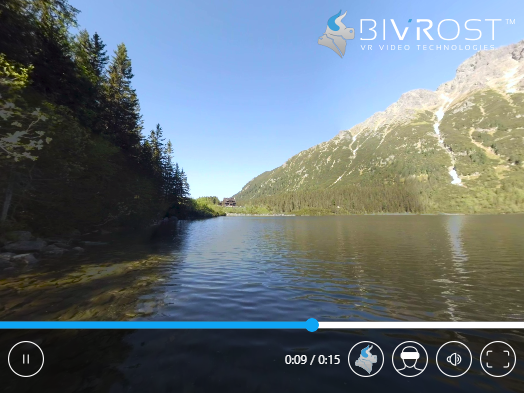
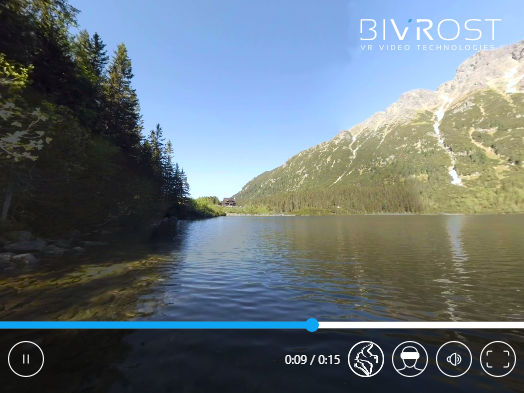
Upgraded new graphics, proofreading

Changed region(s): [[0.6718, 0.855, 0.7328, 0.9771], [0.6107, 0.0305, 0.7023, 0.1527]]

diff --git a/readme-to-markdown.php b/readme-to-markdown.php
@@ -12,6 +12,7 @@ $title = <<<END
 BIVROST 360WebPlayer for WordPress 
 ==================================
 
+![WordPress editor preview](screenshot-2.png)
 
 END;
 

diff --git a/readme.md b/readme.md
@@ -1,9 +1,10 @@
 BIVROST 360WebPlayer for WordPress 
 ==================================
 
+![WordPress editor preview](screenshot-2.png)
 
 
-Embed 360° videos and pictures on your Wordpress blog with the BIVROST 360WebPlayer for WordPress Plugin.
+Embed 360° videos and pictures on your WordPress blog with the BIVROST 360WebPlayer for WordPress Plugin.
 
 ### Features 
 
@@ -17,10 +18,11 @@ Embed 360° videos and pictures on your Wordpress blog with the BIVROST 360WebPl
 * Mono and stereoscopic video and pictures.
 * HTTP Live Streaming (HLS).
 * Works well with touch.
-* Well tested and supports many edge cases.
+* Well tested - supports many edge cases.
 * [WebVR][webvr] support - works with Oculus Rift, Vive, Windows Mixed Reality, OSVR, GearVR, Google Cardboard and more.
-* Supports watching content in external native players ([by Bivrost][player-windows]).
-* We want to hear your feedback and ideas for new features, to make it even better.
+* Supports watching content in external native players ([by BIVROST][player-windows]).
+
+We want to hear your feedback and ideas for new features, to make it even better.
 
 [bivrost]: http://bivrost360.com
 [webvr]: http://webvr.info/
@@ -50,9 +52,10 @@ my_vr_movie.mp4
 my_vr_movie.webm  
 [/bivrost-player]`
 
-Put the picture or movie urls in the `[bivrost-player]` tag separated by newlines. For best results add both a webm/vp6 and a mp4/h264 version.
+Put the picture or movie urls in the `[bivrost-player]` tag separated by newlines. For the best result add both a webm/vp6 and a mp4/h264 version.
 
-You can configure the player using attributes in the shortcode. Below are your options, none of them are required.
+You can configure the player using attributes in the shortcode. Below you can find several options, none of them are required.
+
 
 
 ### Available options
@@ -140,7 +143,7 @@ Add the BIVROST 360WebPlayer for WordPress plugin using the built-in plugin inst
 
 After installation, you will have a new button in the WYSYWIG editor. There is a also a `[bivrost-player]` shortcode available.
 
-[download]: https://gitlab.com/BIVROST/360WebPlayer-for-WordPress/tags
+[download]: https://github.com/BIVROST/360WebPlayer-for-WordPress/tags
 
 ## Frequently Asked Questions 
 
@@ -215,9 +218,9 @@ Either your webserver doesn't support [Content-Range][content-range] or there ar
 
 ### Where can I submit feature requests or bug reports? Where can I find the unminified version?
 
-Please send bugs and feature requests to our [GitLab project][gitlab]. The sources are located there too. Thanks a lot in advance for any and all feedback.
+Please send bugs and feature requests to our [GitHub project][issues]. The sources are located there too. Thanks a lot in advance for any and all feedback.
 
-[gitlab]: http://gitlab.com/BIVROST/360WebPlayer
+[issues]: http://github.com/BIVROST/360WebPlayer-for-WordPress
 
 
 
@@ -227,7 +230,11 @@ Although browsers are the most accessible platforms, they are not all fully read
 
 The BIVROST 360WebPlayer has a button that allows online content to be run in a native player. This enhances performance and gives the user a better experience than viewing the content straight from the browser. If the user does not have the player yet, he or she can download it through a pop-up.
 
-The standalone player has less latency, better frame rates and supports VR headsets,
+The [BIVROST 360Player for Windows][player-windows] standalone player for Windows supports Oculus, HTC Vive, OSVR and Windows Mixed Reality (via SteamVR) VR headsets, has less latency, and better frame rates.
+
+We also have the BIVROST 360Player for Unity - a tool built on top of Unity that allows the user to create 360° video players for iOS, Android and GearVR.
+Please [contact sales at contact@bivrost360.com][email-sales] for more details.
+
 
 
 
@@ -243,8 +250,8 @@ The 360WebPlayer has two license options:
 If you want to remove or replace our branding, are unsure about which license applies to you, please [contact us for help and additional licensing options][email-sales].
 
 [email-sales]: mailto:contact@bivrost360.com
-[license-free]: https://gitlab.com/BIVROST/360WebPlayer/blob/master/LICENSE-free.md
-[license-paid]: https://gitlab.com/BIVROST/360WebPlayer/blob/master/LICENSE-commercial.md
+[license-free]: https://github.com/BIVROST/360WebPlayer/blob/master/LICENSE-free.md
+[license-paid]: https://github.com/BIVROST/360WebPlayer/blob/master/LICENSE-commercial.md
 
 
 
@@ -265,8 +272,8 @@ The BIVROST 360WebPlayer for WordPress uses third party libraries:
 
 * [THREE.js][threejs] (MIT license)
 * [hls.js][hlsjs] (Apache 2.0 License)
-* [BIVROST 360 WebPlayer][gitlab] (Custom open source license)
+* [BIVROST 360 WebPlayer][github-360WebPlayer] (Custom open source license)
 
 [threejs]: http://threejs.org
 [hlsjs]: https://github.com/dailymotion/hls.js/
-[gitlab]: https://gitlab.com/BIVROST/360WebPlayer
+[github-360WebPlayer]: https://github.com/BIVROST/360WebPlayer
